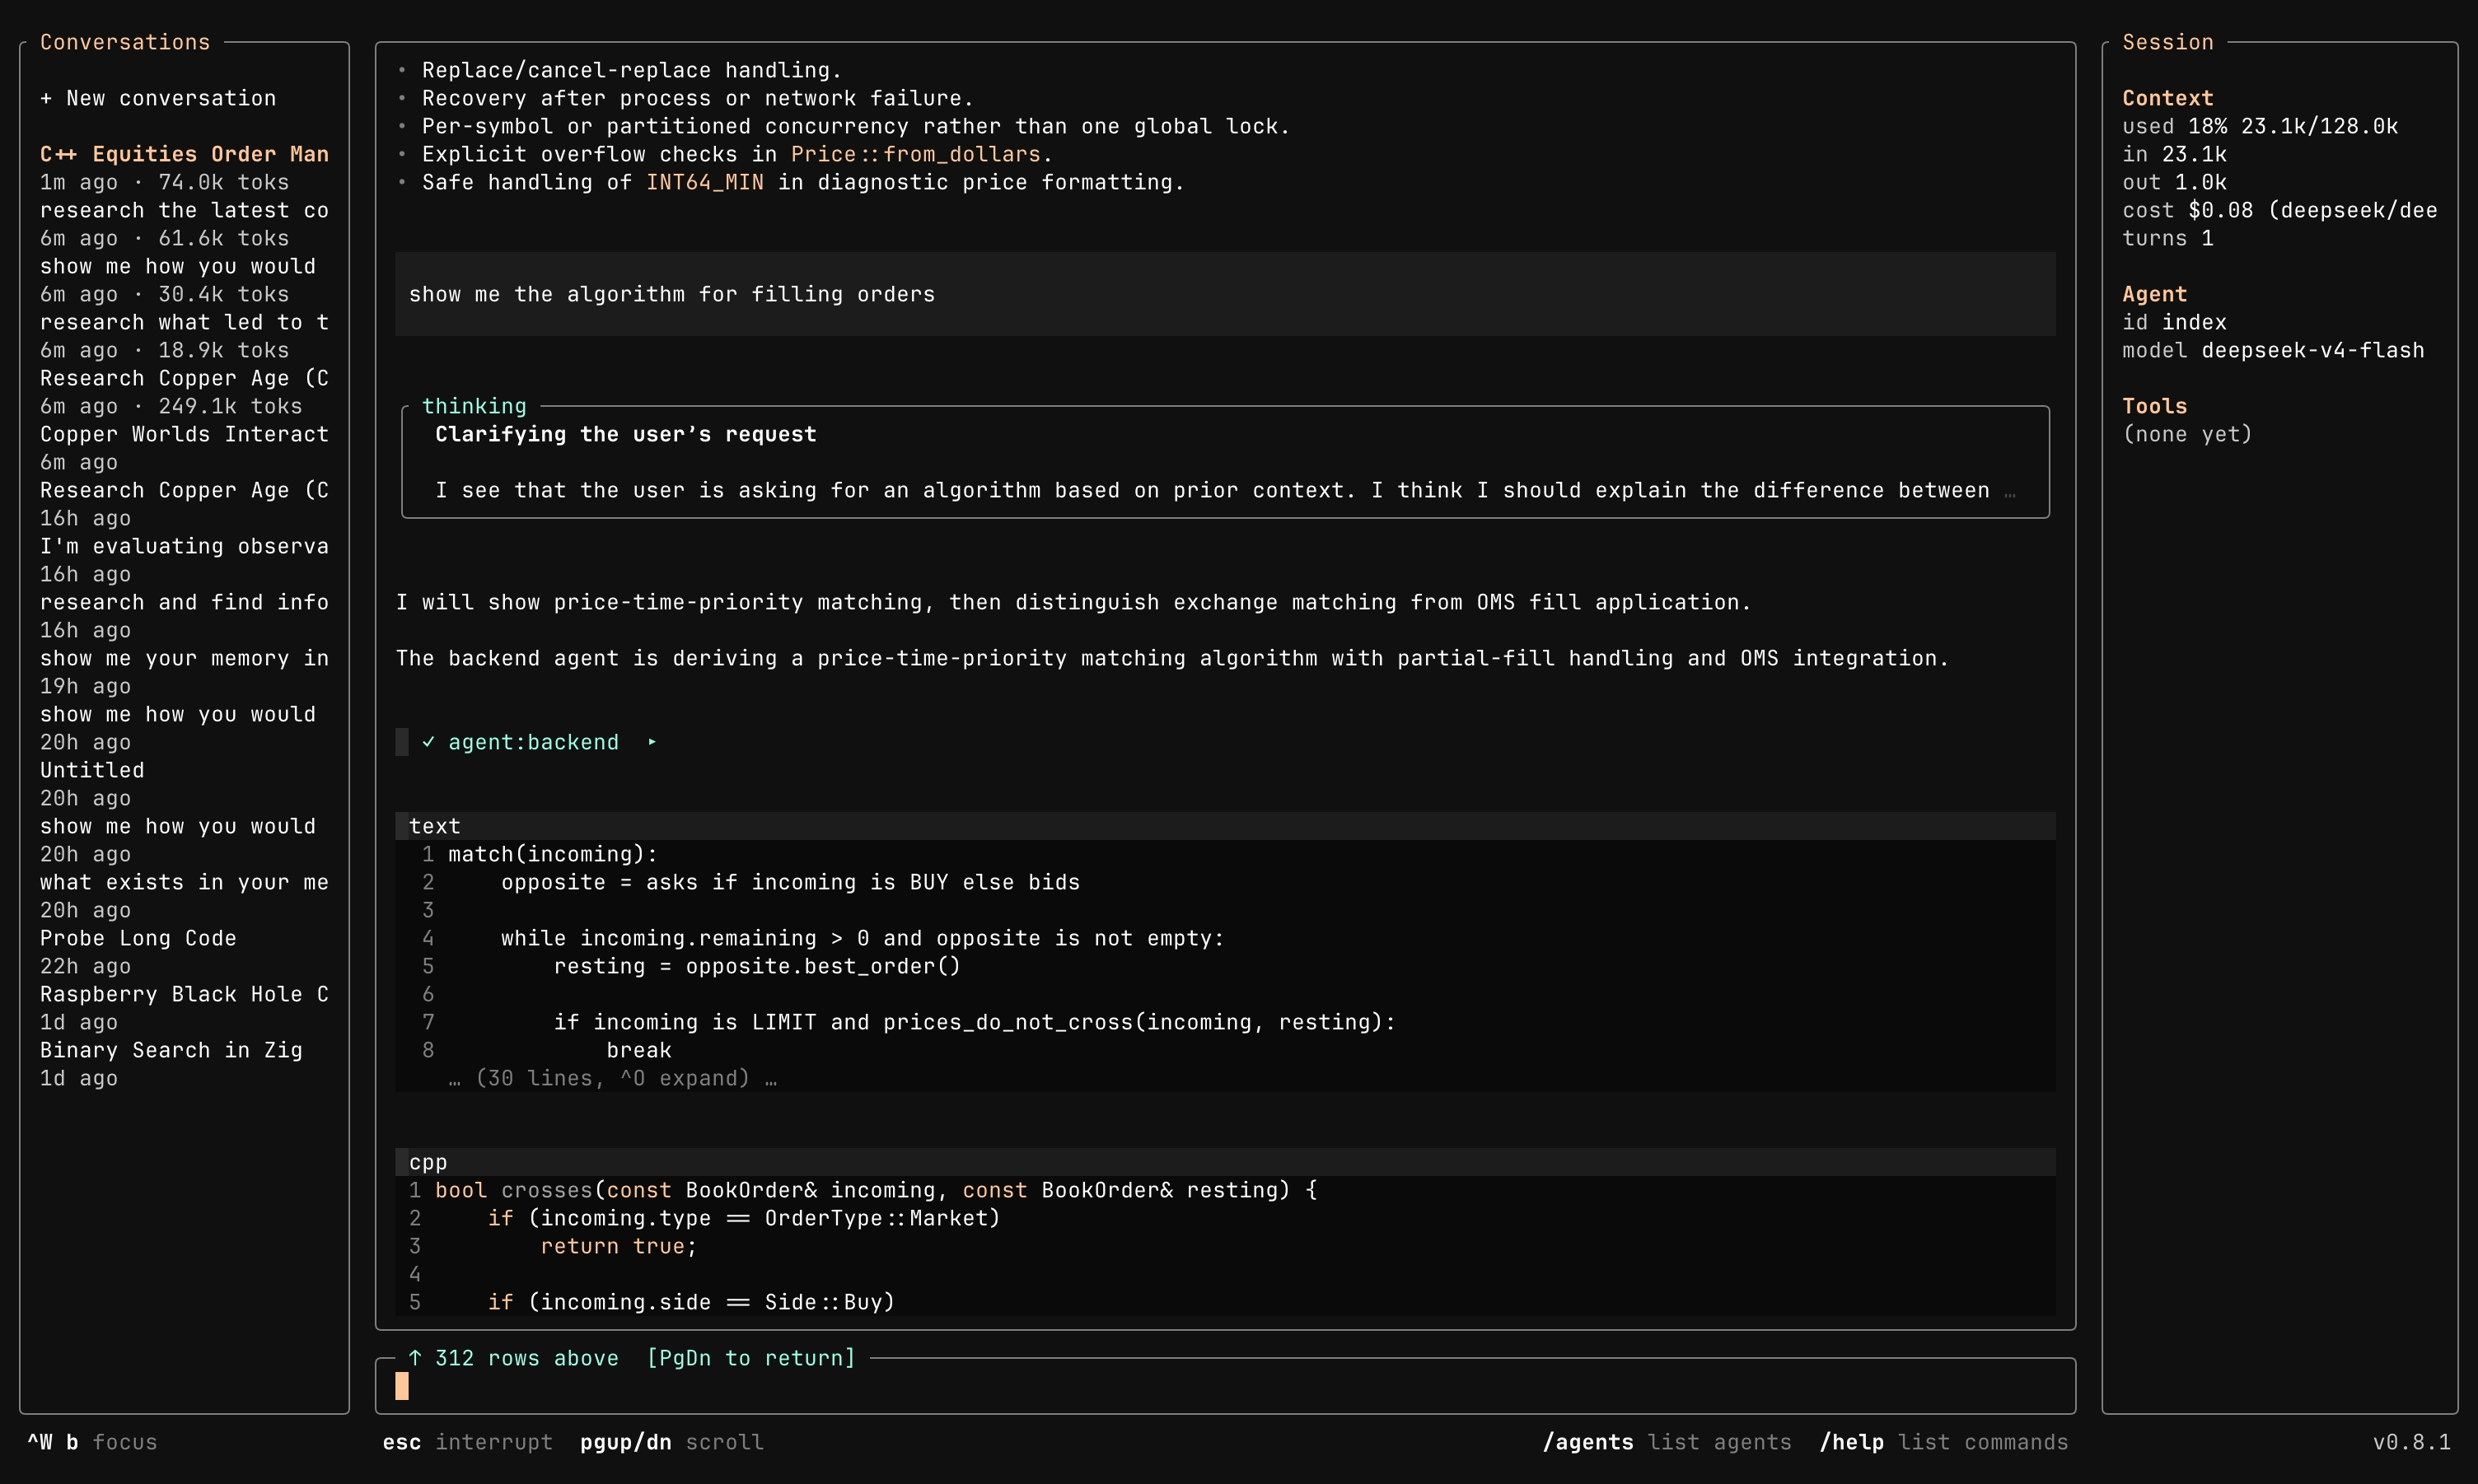
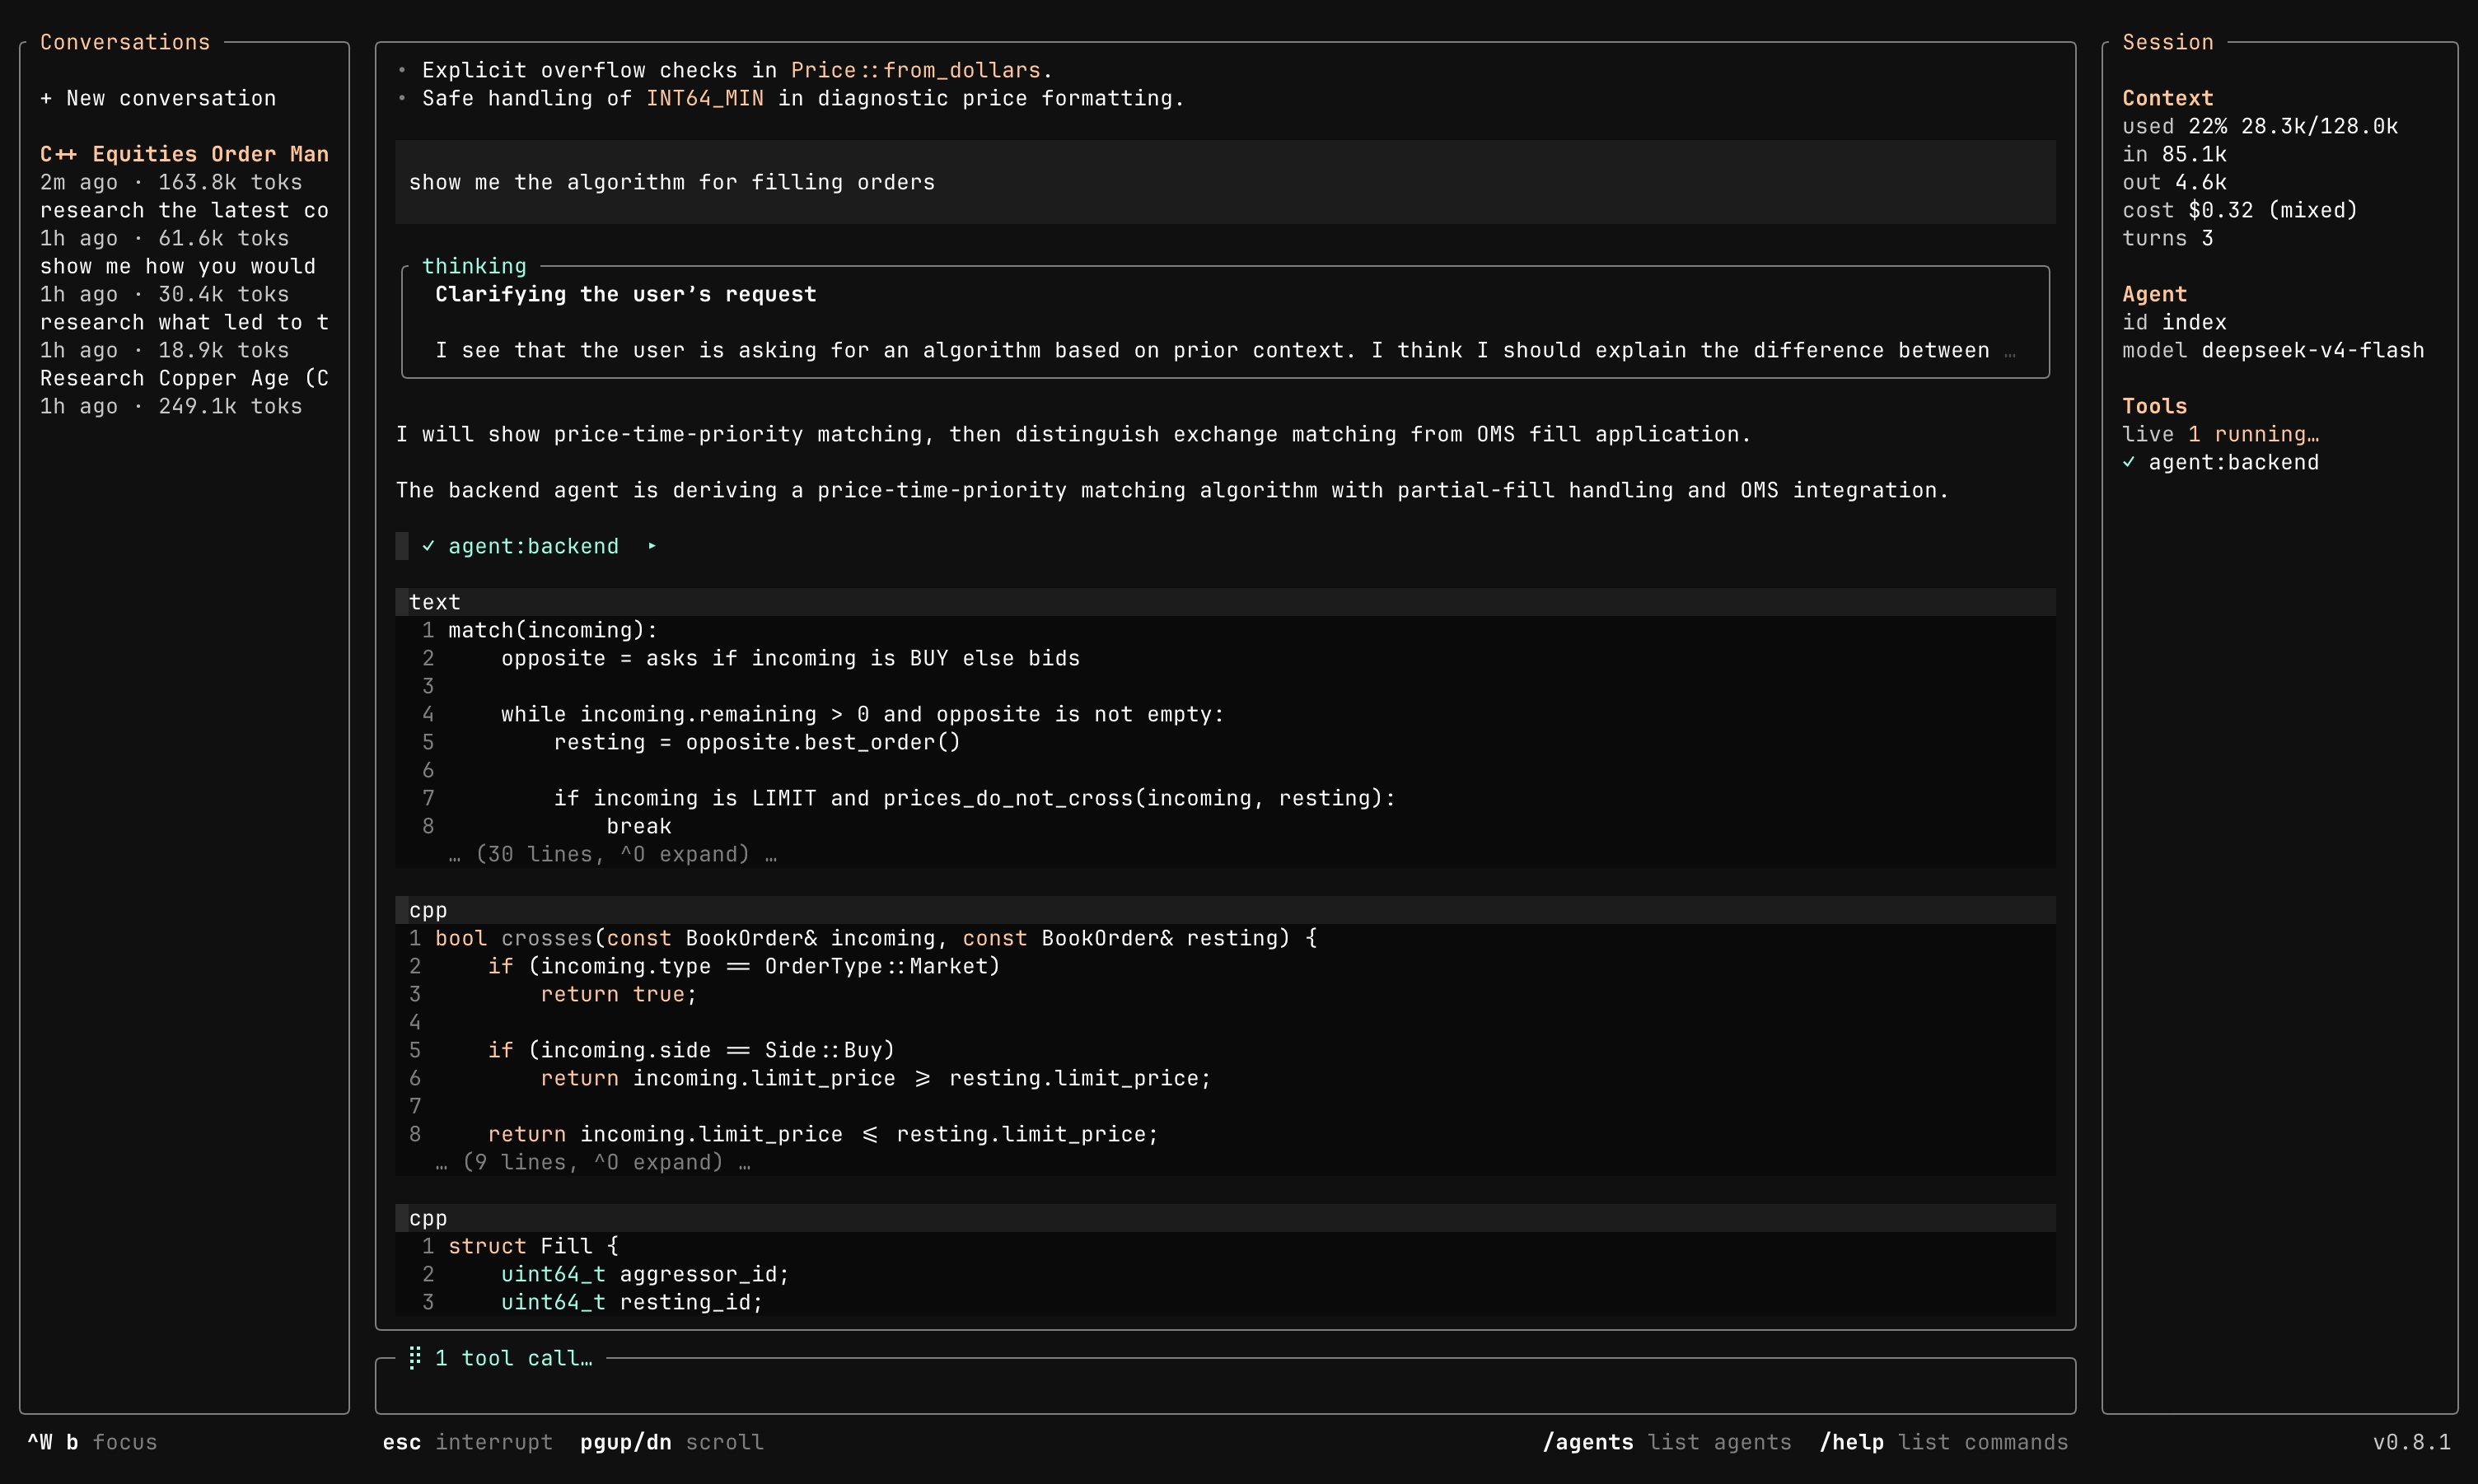
interactive menu for sidebar operations

diff --git a/src/tui/history_sidebar.cpp b/src/tui/history_sidebar.cpp
@@ -159,6 +159,7 @@ void HistorySidebarState::enter_focus(const ConversationStore& store,
     mode_ = Mode::Normal;
     rename_buffer_.clear();
     filter_.clear();
+    menu_index_ = 0;
     active_id_ = active_id;
     entries_ = store.list();
     pinned_new_ = true;
@@ -179,6 +180,23 @@ void HistorySidebarState::exit_focus() {
     mode_ = Mode::Normal;
     rename_buffer_.clear();
     filter_.clear();
+    menu_index_ = 0;
+}
+
+HistorySidebarKey HistorySidebarState::commit_menu_locked() {
+    mode_ = Mode::Normal;
+    const int pick = menu_index_;
+    menu_index_ = 0;
+    if (pick == kMenuRename) {
+        mode_ = Mode::Renaming;
+        rename_buffer_ = current_title_locked();
+        return HistorySidebarKey::RenameStart;
+    }
+    if (pick == kMenuDelete) {
+        mode_ = Mode::ConfirmDelete;
+        return HistorySidebarKey::DeleteStart;
+    }
+    return HistorySidebarKey::Enter;
 }
 
 void HistorySidebarState::refresh_entries(const ConversationStore& store) {
@@ -282,6 +300,41 @@ HistorySidebarKey HistorySidebarState::handle_key(int key_byte,
         return HistorySidebarKey::None;
     }
 
+    if (mode_ == Mode::Menu) {
+        // SGR mouse already filtered above. Arrows / j/k move the highlight;
+        // Enter commits; Esc / m closes without acting. First-letter
+        // shortcuts jump straight to that action.
+        if (csi_final == 'A' || key_byte == 'k') {
+            menu_index_ = (menu_index_ + kMenuCount - 1) % kMenuCount;
+            return HistorySidebarKey::None;
+        }
+        if (csi_final == 'B' || key_byte == 'j') {
+            menu_index_ = (menu_index_ + 1) % kMenuCount;
+            return HistorySidebarKey::None;
+        }
+        if (key_byte == '\r' || key_byte == '\n') {
+            return commit_menu_locked();
+        }
+        if (key_byte == 0x1B || key_byte == 'm') {
+            mode_ = Mode::Normal;
+            menu_index_ = 0;
+            return HistorySidebarKey::None;
+        }
+        if (key_byte == 'o' || key_byte == 'O') {
+            menu_index_ = kMenuOpen;
+            return commit_menu_locked();
+        }
+        if (key_byte == 'r' || key_byte == 'R') {
+            menu_index_ = kMenuRename;
+            return commit_menu_locked();
+        }
+        if (key_byte == 'd' || key_byte == 'D') {
+            menu_index_ = kMenuDelete;
+            return commit_menu_locked();
+        }
+        return HistorySidebarKey::None;
+    }
+
     if (mode_ == Mode::Filtering) {
         // Arrows still navigate the (filtered) list while typing.
         if (csi_final == 'A') return HistorySidebarKey::Up;
@@ -345,6 +398,12 @@ HistorySidebarKey HistorySidebarState::handle_key(int key_byte,
         mode_ = Mode::ConfirmDelete;
         return HistorySidebarKey::DeleteStart;
     }
+    if (key_byte == 'm') {
+        if (pinned_new_) return HistorySidebarKey::None;
+        mode_ = Mode::Menu;
+        menu_index_ = kMenuOpen;
+        return HistorySidebarKey::MenuOpen;
+    }
 
     return HistorySidebarKey::None;
 }
@@ -361,6 +420,8 @@ HistorySidebarSnapshot HistorySidebarState::snapshot() const {
     s.renaming = (mode_ == Mode::Renaming);
     s.rename_buffer = rename_buffer_;
     s.confirming_delete = (mode_ == Mode::ConfirmDelete);
+    s.menu_open = (mode_ == Mode::Menu);
+    s.menu_index = menu_index_;
     s.filtering = (mode_ == Mode::Filtering);
     s.filter = filter_;
     return s;

diff --git a/src/tui/opentui/history_sidebar_frame.cpp b/src/tui/opentui/history_sidebar_frame.cpp
@@ -178,7 +178,7 @@ void draw_hint_text(OpenTuiHandle frame,
         const std::string_view part(trimmed.data() + start, i - start);
         const bool command = !space
             && (part == "esc" || part == "enter" || part == "pg" || part == "pgup/dn"
-                || part == "^W" || part == "b"
+                || part == "^W" || part == "b" || part == "m"
                 || part == "\u2191\u2193" || (!part.empty() && part.front() == '/'));
         draw_text(frame,
                   cx,
@@ -188,6 +188,42 @@ void draw_hint_text(OpenTuiHandle frame,
                   bg,
                   command ? kAttrBold : 0);
         cx += static_cast<std::uint32_t>(cell_width(part));
+    }
+}
+
+void draw_action_menu(OpenTuiHandle frame,
+                      const TuiDesign& d,
+                      int x,
+                      int y,
+                      int w,
+                      int menu_index,
+                      int max_bottom_y) {
+    static constexpr const char* kLabels[] = {"Open", "Rename", "Delete"};
+    static constexpr int kCount = 3;
+    const int h = std::min(kCount, std::max(0, max_bottom_y - y + 1));
+    if (h <= 0 || w <= 0) return;
+
+    fill_rect(frame,
+              static_cast<std::uint32_t>(x),
+              static_cast<std::uint32_t>(y),
+              static_cast<std::uint32_t>(w),
+              static_cast<std::uint32_t>(h),
+              d.bg.header);
+
+    for (int i = 0; i < h; ++i) {
+        const bool selected = i == menu_index;
+        std::string line = selected ? "\u203A " : "  ";
+        line += kLabels[i];
+        const TuiRgba& fg = selected ? d.text.inverse
+                          : (i == 2 ? d.accent.error : d.text.primary);
+        const TuiRgba& bg = selected ? d.accent.primary : d.bg.header;
+        draw_text(frame,
+                  static_cast<std::uint32_t>(x),
+                  static_cast<std::uint32_t>(y + i),
+                  trim_to_cells(std::move(line), w),
+                  fg,
+                  bg,
+                  selected ? kAttrBold : 0);
     }
 }
 
@@ -249,7 +285,8 @@ void draw_history_sidebar(OpenTuiHandle frame,
 
     const std::string_view sidebar_hint = snap.focused
         ? (snap.filtering ? "type to filter  esc clear"
-                          : "\u2191\u2193 select  enter  / filter")
+                          : snap.menu_open ? "\u2191\u2193 move  enter  esc"
+                                           : "\u2191\u2193 select  m menu  / filter")
         : "^W b focus";
     // Align with the pane's footer hints below the input box, not with the
     // sidebar border itself.
@@ -315,6 +352,7 @@ void draw_history_sidebar(OpenTuiHandle frame,
     const int total = static_cast<int>(rows.size());
     const int scroll = std::max(0, std::min(snap.scroll_offset, std::max(0, total - 1)));
 
+    int selected_row_y = -1;
     int row_y = y;
     for (int i = scroll; i < total && row_y + kRowHeight - 1 <= sep_y; ++i) {
         const bool selected = snap.focused && (i == snap.selected);
@@ -322,6 +360,10 @@ void draw_history_sidebar(OpenTuiHandle frame,
             && rows[static_cast<size_t>(i)].conv_id == snap.active_id;
         const bool editing = selected && snap.renaming;
         const bool confirming = selected && snap.confirming_delete;
+        if (selected) selected_row_y = row_y;
+        // While the action menu is open, keep the title visible but skip the
+        // subtitle — the overlay paints Open/Rename/Delete over that space.
+        const bool menu_here = selected && snap.menu_open;
         draw_row(frame,
                  d,
                  sc,
@@ -329,7 +371,7 @@ void draw_history_sidebar(OpenTuiHandle frame,
                  row_y,
                  content_w,
                  rows[static_cast<size_t>(i)].title,
-                 rows[static_cast<size_t>(i)].subtitle,
+                 menu_here ? std::string_view{} : rows[static_cast<size_t>(i)].subtitle,
                  selected,
                  active,
                  editing,
@@ -337,6 +379,18 @@ void draw_history_sidebar(OpenTuiHandle frame,
                  confirming,
                  bg);
         row_y += kRowHeight;
+    }
+
+    if (snap.menu_open && snap.focused && selected_row_y >= 0) {
+        // Anchor under the conversation title so Open/Rename/Delete read as
+        // a menu on the active row; clamp so we never paint past the list.
+        draw_action_menu(frame,
+                         d,
+                         content_x,
+                         selected_row_y + 1,
+                         content_w,
+                         snap.menu_index,
+                         sep_y);
     }
 }
 

diff --git a/tests/test_history_sidebar.cpp b/tests/test_history_sidebar.cpp
@@ -141,6 +141,48 @@ TEST_CASE("rename/delete are no-ops on the '+ New conversation' row") {
     CHECK_FALSE(sidebar.snapshot().renaming);
     CHECK(sidebar.handle_key('d', 0, "") == HistorySidebarKey::None);
     CHECK_FALSE(sidebar.snapshot().confirming_delete);
+    CHECK(sidebar.handle_key('m', 0, "") == HistorySidebarKey::None);
+    CHECK_FALSE(sidebar.snapshot().menu_open);
+}
+
+TEST_CASE("menu: m opens Open/Rename/Delete; Enter commits; Esc cancels") {
+    const std::string dir = make_temp_dir();
+    ConversationStore store(dir);
+
+    HistorySidebarState sidebar;
+    sidebar.enter_focus(store, store.active_id());
+
+    CHECK(sidebar.handle_key('m', 0, "") == HistorySidebarKey::MenuOpen);
+    auto snap = sidebar.snapshot();
+    CHECK(snap.menu_open);
+    CHECK(snap.menu_index == 0);
+
+    // Down moves highlight to Rename; Esc cancels without acting.
+    CHECK(sidebar.handle_key('j', 0, "") == HistorySidebarKey::None);
+    CHECK(sidebar.snapshot().menu_index == 1);
+    CHECK(sidebar.handle_key(0x1B, 0, "") == HistorySidebarKey::None);
+    CHECK_FALSE(sidebar.snapshot().menu_open);
+
+    // Re-open and commit Open (default highlight).
+    CHECK(sidebar.handle_key('m', 0, "") == HistorySidebarKey::MenuOpen);
+    CHECK(sidebar.handle_key('\r', 0, "") == HistorySidebarKey::Enter);
+    CHECK_FALSE(sidebar.snapshot().menu_open);
+
+    // First-letter shortcut: r jumps to rename.
+    CHECK(sidebar.handle_key('m', 0, "") == HistorySidebarKey::MenuOpen);
+    CHECK(sidebar.handle_key('r', 0, "") == HistorySidebarKey::RenameStart);
+    CHECK(sidebar.snapshot().renaming);
+    CHECK_FALSE(sidebar.snapshot().menu_open);
+    sidebar.handle_key(0x1B, 0, "");   // cancel rename
+
+    // Menu → Delete lands in the same confirm step as a bare 'd'.
+    CHECK(sidebar.handle_key('m', 0, "") == HistorySidebarKey::MenuOpen);
+    CHECK(sidebar.handle_key('d', 0, "") == HistorySidebarKey::DeleteStart);
+    CHECK(sidebar.snapshot().confirming_delete);
+    CHECK_FALSE(sidebar.snapshot().menu_open);
+    CHECK(sidebar.handle_key('y', 0, "") == HistorySidebarKey::DeleteConfirmed);
+
+    fs::remove_all(dir);
 }
 
 TEST_CASE("'/' filters entries; Enter commits; Esc clears") {

diff --git a/include/tui/history_sidebar.h b/include/tui/history_sidebar.h
@@ -28,6 +28,10 @@ enum class HistorySidebarKey {
     // silently (handled internally, surfaces as None).
     DeleteStart,
     DeleteConfirmed,
+    // Opened the per-row action menu ('m'); callers redraw. Navigating and
+    // cancelling the menu are handled internally (None); committing an
+    // item surfaces as Enter / RenameStart / DeleteStart.
+    MenuOpen,
     PageUp,
     PageDown,
 };
@@ -40,11 +44,15 @@ struct HistorySidebarSnapshot {
     std::string active_id;
     // Entries surviving the active filter (all entries when no filter).
     std::vector<ConversationEntry> entries;
-    // Inline edit/confirm state for the frame drawer to render on the
+    // Inline edit/confirm/menu state for the frame drawer to render on the
     // selected row instead of its normal title/subtitle.
     bool renaming = false;
     std::string rename_buffer;
     bool confirming_delete = false;
+    // Per-row action menu ('m'): Open / Rename / Delete. `menu_index` is
+    // 0..2 while `menu_open` is true.
+    bool menu_open = false;
+    int  menu_index = 0;
     // Type-to-filter state: `filtering` while the filter line is being
     // edited ('/'), `filter` is the applied text (persists after Enter
     // commits the filter until Esc clears it or focus is re-entered).
@@ -102,7 +110,12 @@ public:
     [[nodiscard]] HistorySidebarSnapshot snapshot() const;
 
 private:
-    enum class Mode { Normal, Renaming, ConfirmDelete, Filtering };
+    enum class Mode { Normal, Renaming, ConfirmDelete, Filtering, Menu };
+    // Indices into the per-row action menu (Open / Rename / Delete).
+    static constexpr int kMenuOpen = 0;
+    static constexpr int kMenuRename = 1;
+    static constexpr int kMenuDelete = 2;
+    static constexpr int kMenuCount = 3;
 
     // Assumes mu_ is already held by the caller.
     int index_for_pin_locked() const;
@@ -114,6 +127,9 @@ private:
     // Re-pin after a filter edit: keep the pinned id if it's still
     // visible, otherwise pin the first visible entry (or "+ New").
     void repin_after_filter_locked();
+    // Commit the highlighted menu item: Open → Enter, Rename → Renaming,
+    // Delete → ConfirmDelete. Returns the corresponding HistorySidebarKey.
+    HistorySidebarKey commit_menu_locked();
 
     mutable std::mutex mu_;
     bool enabled_ = true;
@@ -130,6 +146,7 @@ private:
     Mode mode_ = Mode::Normal;
     std::string rename_buffer_;
     std::string filter_;
+    int menu_index_ = 0;
 };
 
 // Read one key for sidebar navigation (arrows, enter, esc, PgUp/PgDn).

diff --git a/src/main.cpp b/src/main.cpp
@@ -2965,6 +2965,10 @@ static void cmd_interactive(bool exec_allowed_flag, std::string_view theme_overr
                 if (pump_notify) pump_notify();
                 continue;
             }
+            if (action == HistorySidebarKey::MenuOpen) {
+                if (pump_notify) pump_notify();
+                continue;
+            }
             if (action == HistorySidebarKey::RenameCommit) {
                 const std::string id = history_sidebar.selected_conversation_id();
                 const std::string text = history_sidebar.take_rename_buffer();

diff --git a/docs/tui/keybindings.md b/docs/tui/keybindings.md
@@ -73,7 +73,15 @@ If the chord byte doesn't match any of the above, it's silently dropped — the 
 | Key       | Action                                                                       |
 |-----------|------------------------------------------------------------------------------|
 | `↑` / `↓` | Move selection (`+ New conversation` at top, then prior threads newest-first). |
+| `j` / `k` | Vim-style aliases for down / up.                                             |
 | `Enter`   | Attach the selected conversation (or start a new one) to the **focused pane**. Sibling panes and the split layout are left alone. |
-| `Esc`     | Cancel and return focus to the pane input.                                   |
+| `m`       | Open an action menu on the selected conversation: **Open**, **Rename**, or **Delete**. `↑`/`↓` move; `Enter` commits; `Esc` (or `m` again) cancels. First-letter shortcuts (`o` / `r` / `d`) jump straight to that action. No-op on `+ New conversation`. |
+| `r`       | Rename the selected conversation inline (Enter commits, Esc cancels).        |
+| `d`       | Soft-delete the selected conversation after a `Delete? [y/N]` confirm.       |
+| `n`       | Start a new conversation on the focused pane.                                |
+| `/`       | Type-to-filter the list by title or working directory.                       |
+| `Esc`     | Cancel and return focus to the pane input (clears an applied filter first).  |
+
+Choosing **Delete** from the menu (or pressing `d`) enters the same confirm step: type `y` to soft-delete, any other key cancels.
 
 The sidebar requires at least 72 terminal columns when enabled. Below that width it auto-hides even if toggled on.

diff --git a/README.md b/README.md
@@ -3,7 +3,7 @@
 ![Release Version Shield](https://img.shields.io/github/v/release/tylerreckart/arbiter)
 ![License Shield](https://img.shields.io/github/license/tylerreckart/arbiter)
 
-![Arbiter session sidebar and inline diff rendering](assets/terminal.jpg)
+![Arbiter session sidebar and inline diff rendering](assets/vesper.jpg)
 
 **A local agent runtime in a single native binary.** Run multi-agent workflows on your machine — interactive TUI, one-shot CLI, or HTTP+SSE — with hard tool allowlists and a shared streaming event bus. Local-first; network is optional.
 